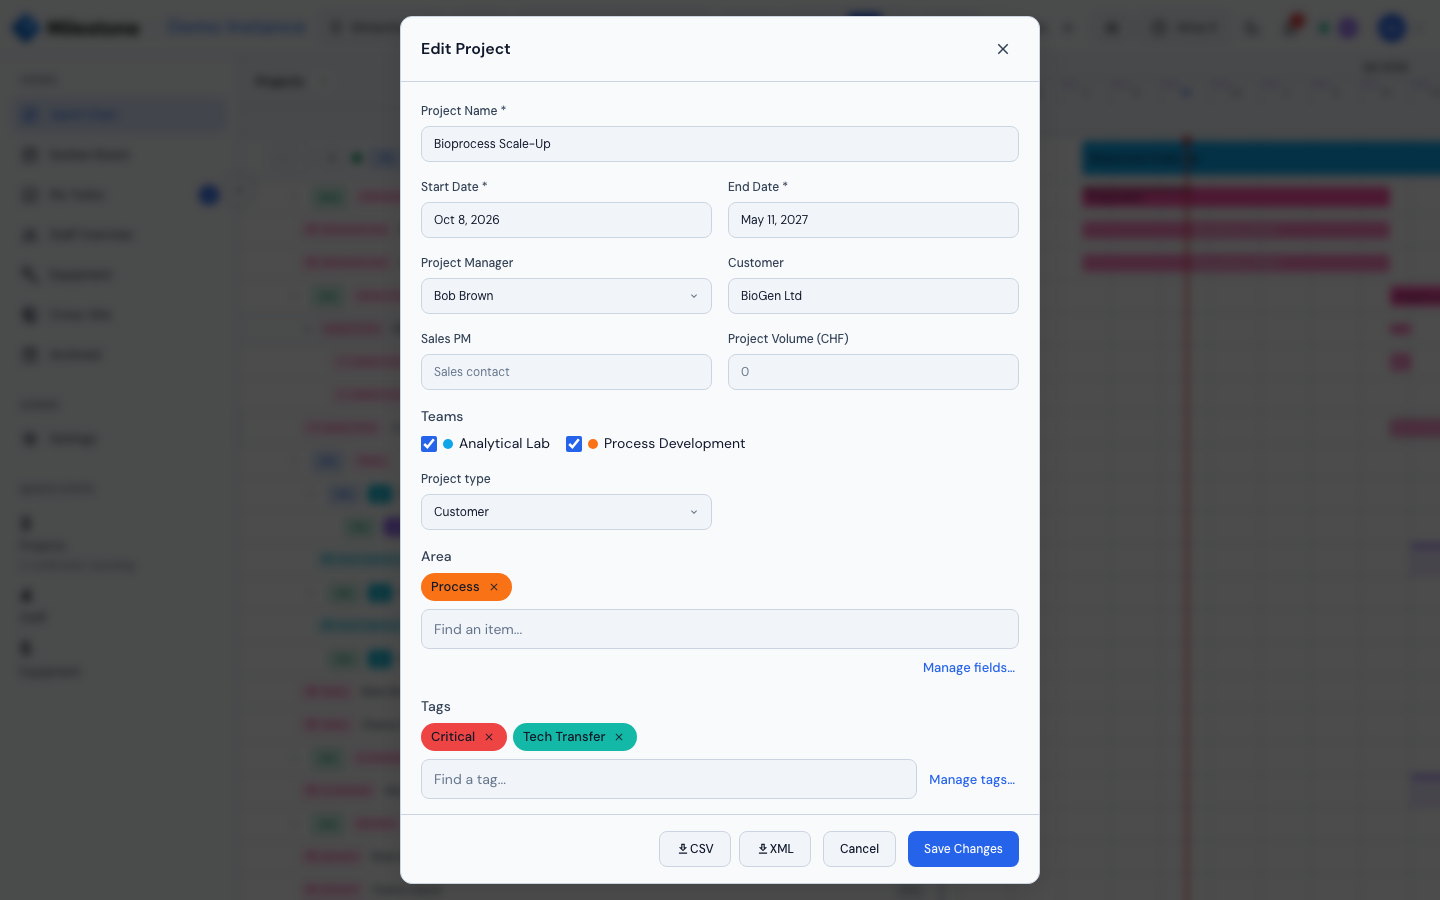
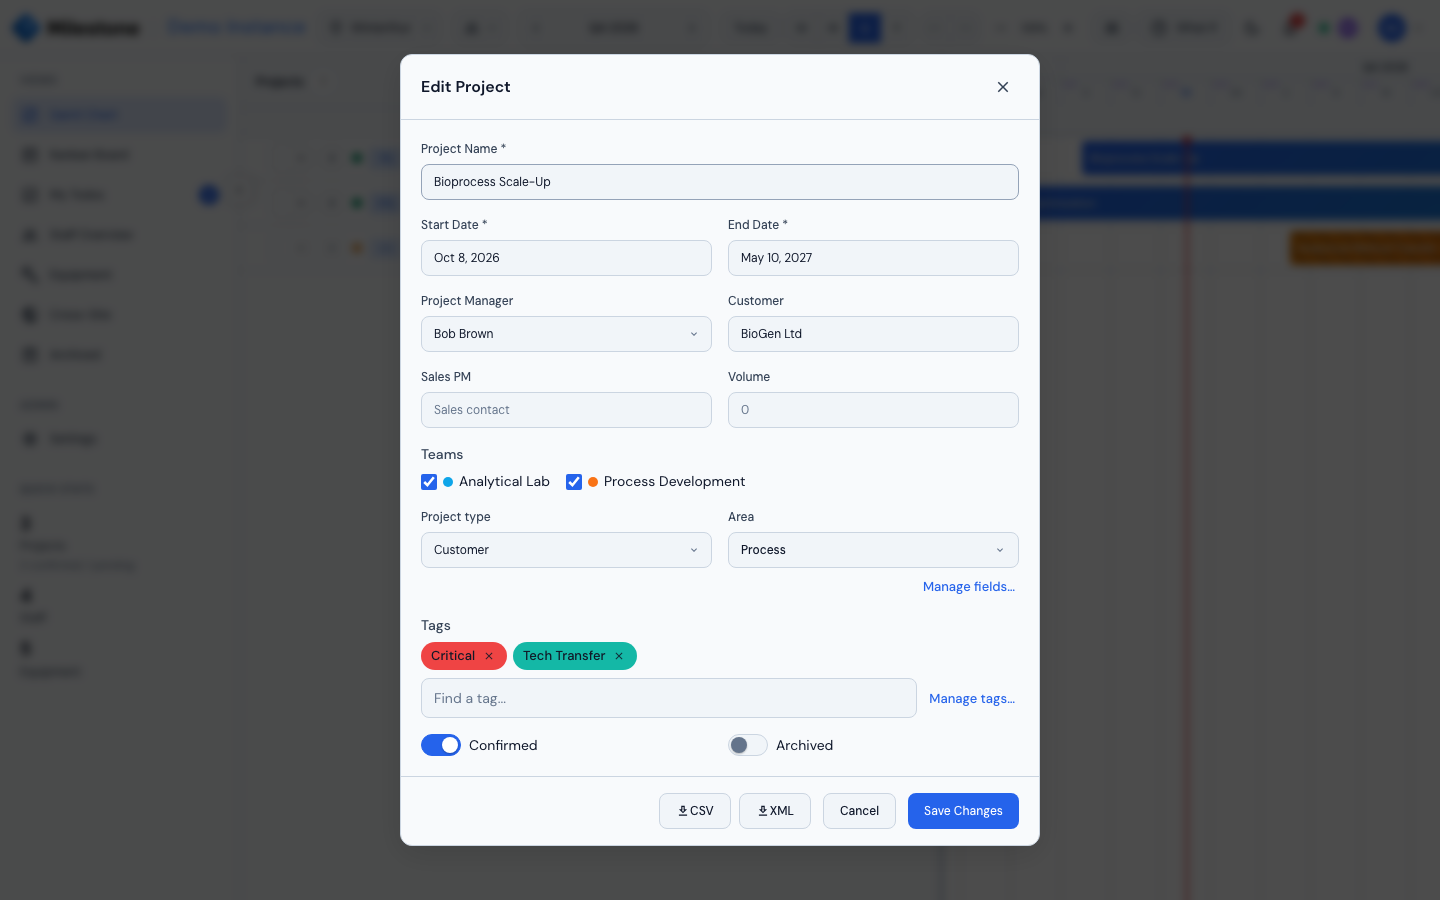
Recapture the project dialog, the field settings and the header dropdowns
The project dialog and its tag picker now show the short built-in labels and
the Area field as a dropdown; Settings → Project fields shows the add-field
row under the list (the capture scrolls to it); the Filter, Colour by and
column filter panels open aligned with their buttons.

diff --git a/scripts/screenshots/capture.py b/scripts/screenshots/capture.py
@@ -358,11 +358,11 @@ def shot_project_fields_settings(context: BrowserContext) -> None:
     # ProjectFieldsPanel: a dropdown field's items toggle is labelled "Items of <field>".
     page.get_by_role("button", name="Items of Project type", exact=True).click()
     page.wait_for_timeout(600)
-    # The items open under the field, below the built-in block: scroll the
-    # panel so the Confirmed row, the custom fields and the open items share
-    # the frame.
-    page.get_by_role("group", name="Items of Project type").evaluate(
-        "el => el.scrollIntoView({block: 'end'})"
+    # The items open under the field, below the built-in block; the add-field
+    # row sits after the list (ProjectFieldsPanel): scroll the panel so the
+    # custom fields, the open items and that row share the frame.
+    page.get_by_label("New field name", exact=True).evaluate(
+        "el => (el.closest('form') || el).scrollIntoView({block: 'end'})"
     )
     page.wait_for_timeout(300)
     page.screenshot(path=str(OUT / "project-fields-settings.png"))

diff --git a/docs/user-guide/settings.md b/docs/user-guide/settings.md
@@ -680,7 +680,7 @@ In the **Equipment View**, use the type filter dropdown to show/hide equipment b
 
 Project fields are what a project holds besides its name, dates, manager and teams (see [Project fields in the Gantt chart](gantt-charts.md#project-fields)). Open **Settings → Project fields** (Admins — the *Manage project fields* permission); everyone who can edit a project fills them in the project dialog.
 
-![Settings → Project fields: the built-in fields with their labels and Shown switches, and the Project type dropdown open on its items](../assets/screenshots/project-fields-settings.png){ loading=lazy }
+![Settings → Project fields: the built-in fields with their labels and Shown switches, the Project type dropdown open on its items, the Area multi-select field and the add-field row under the list](../assets/screenshots/project-fields-settings.png){ loading=lazy }
 
 ### Built-in Fields
 
